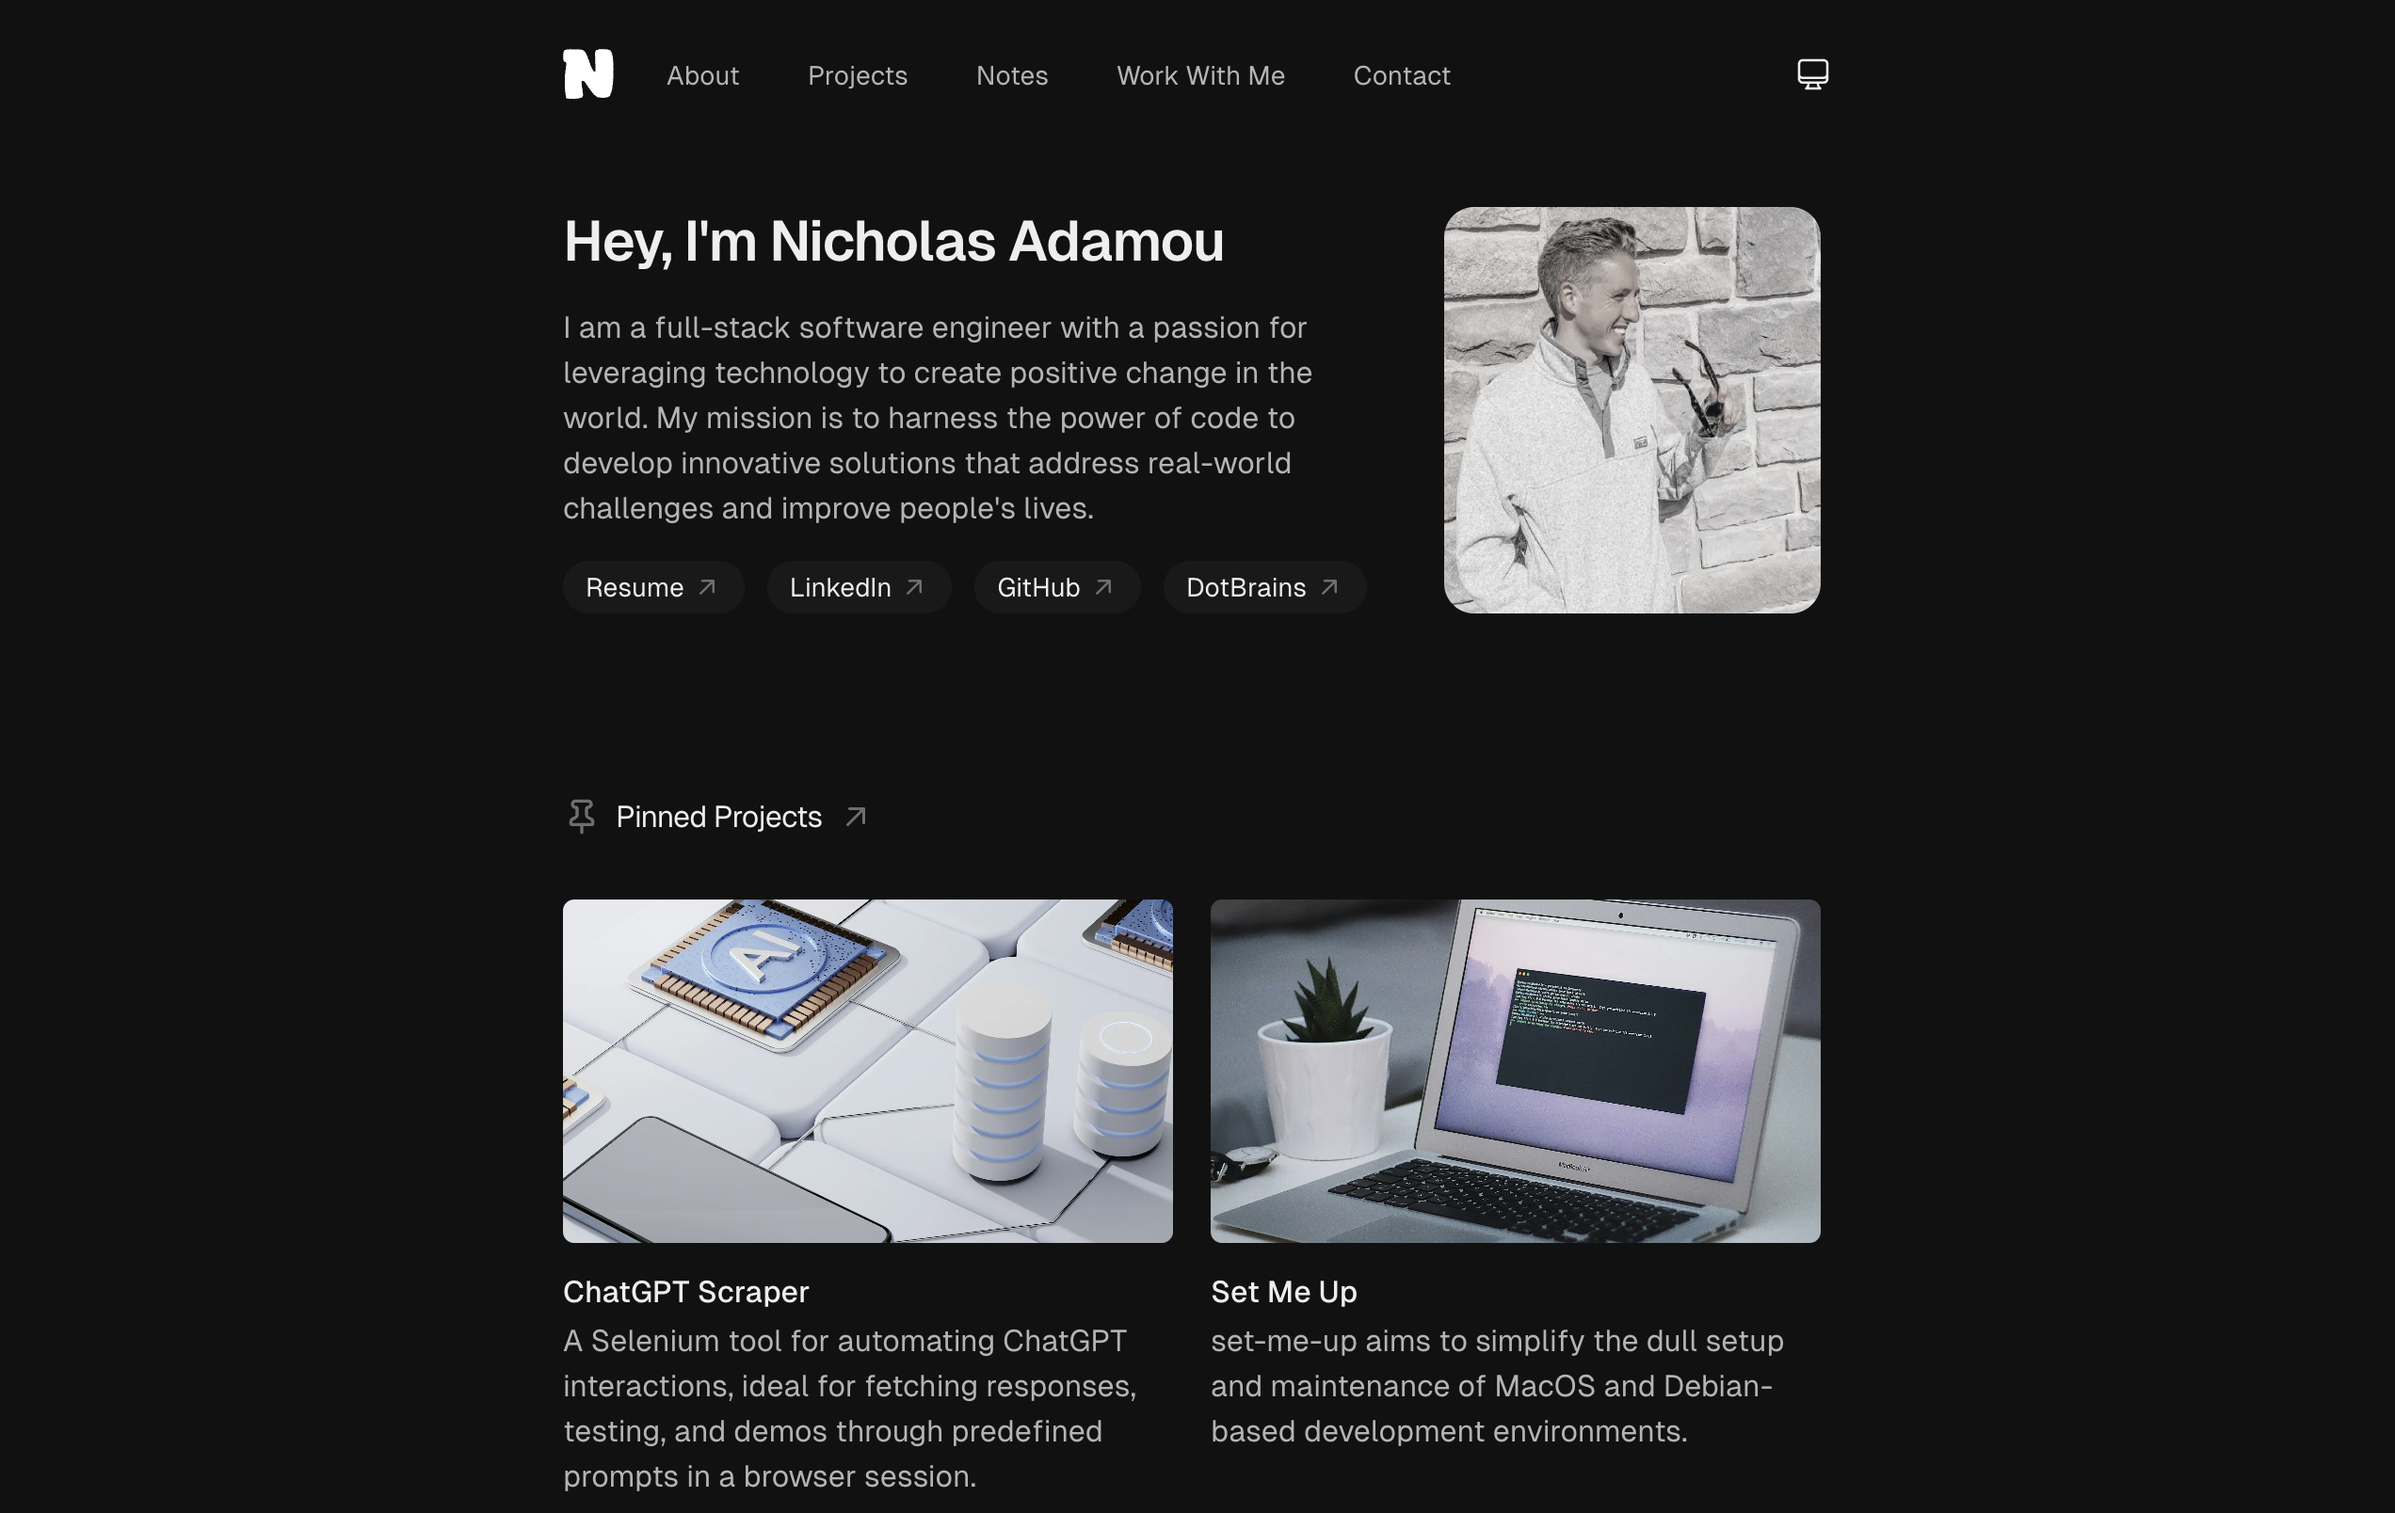
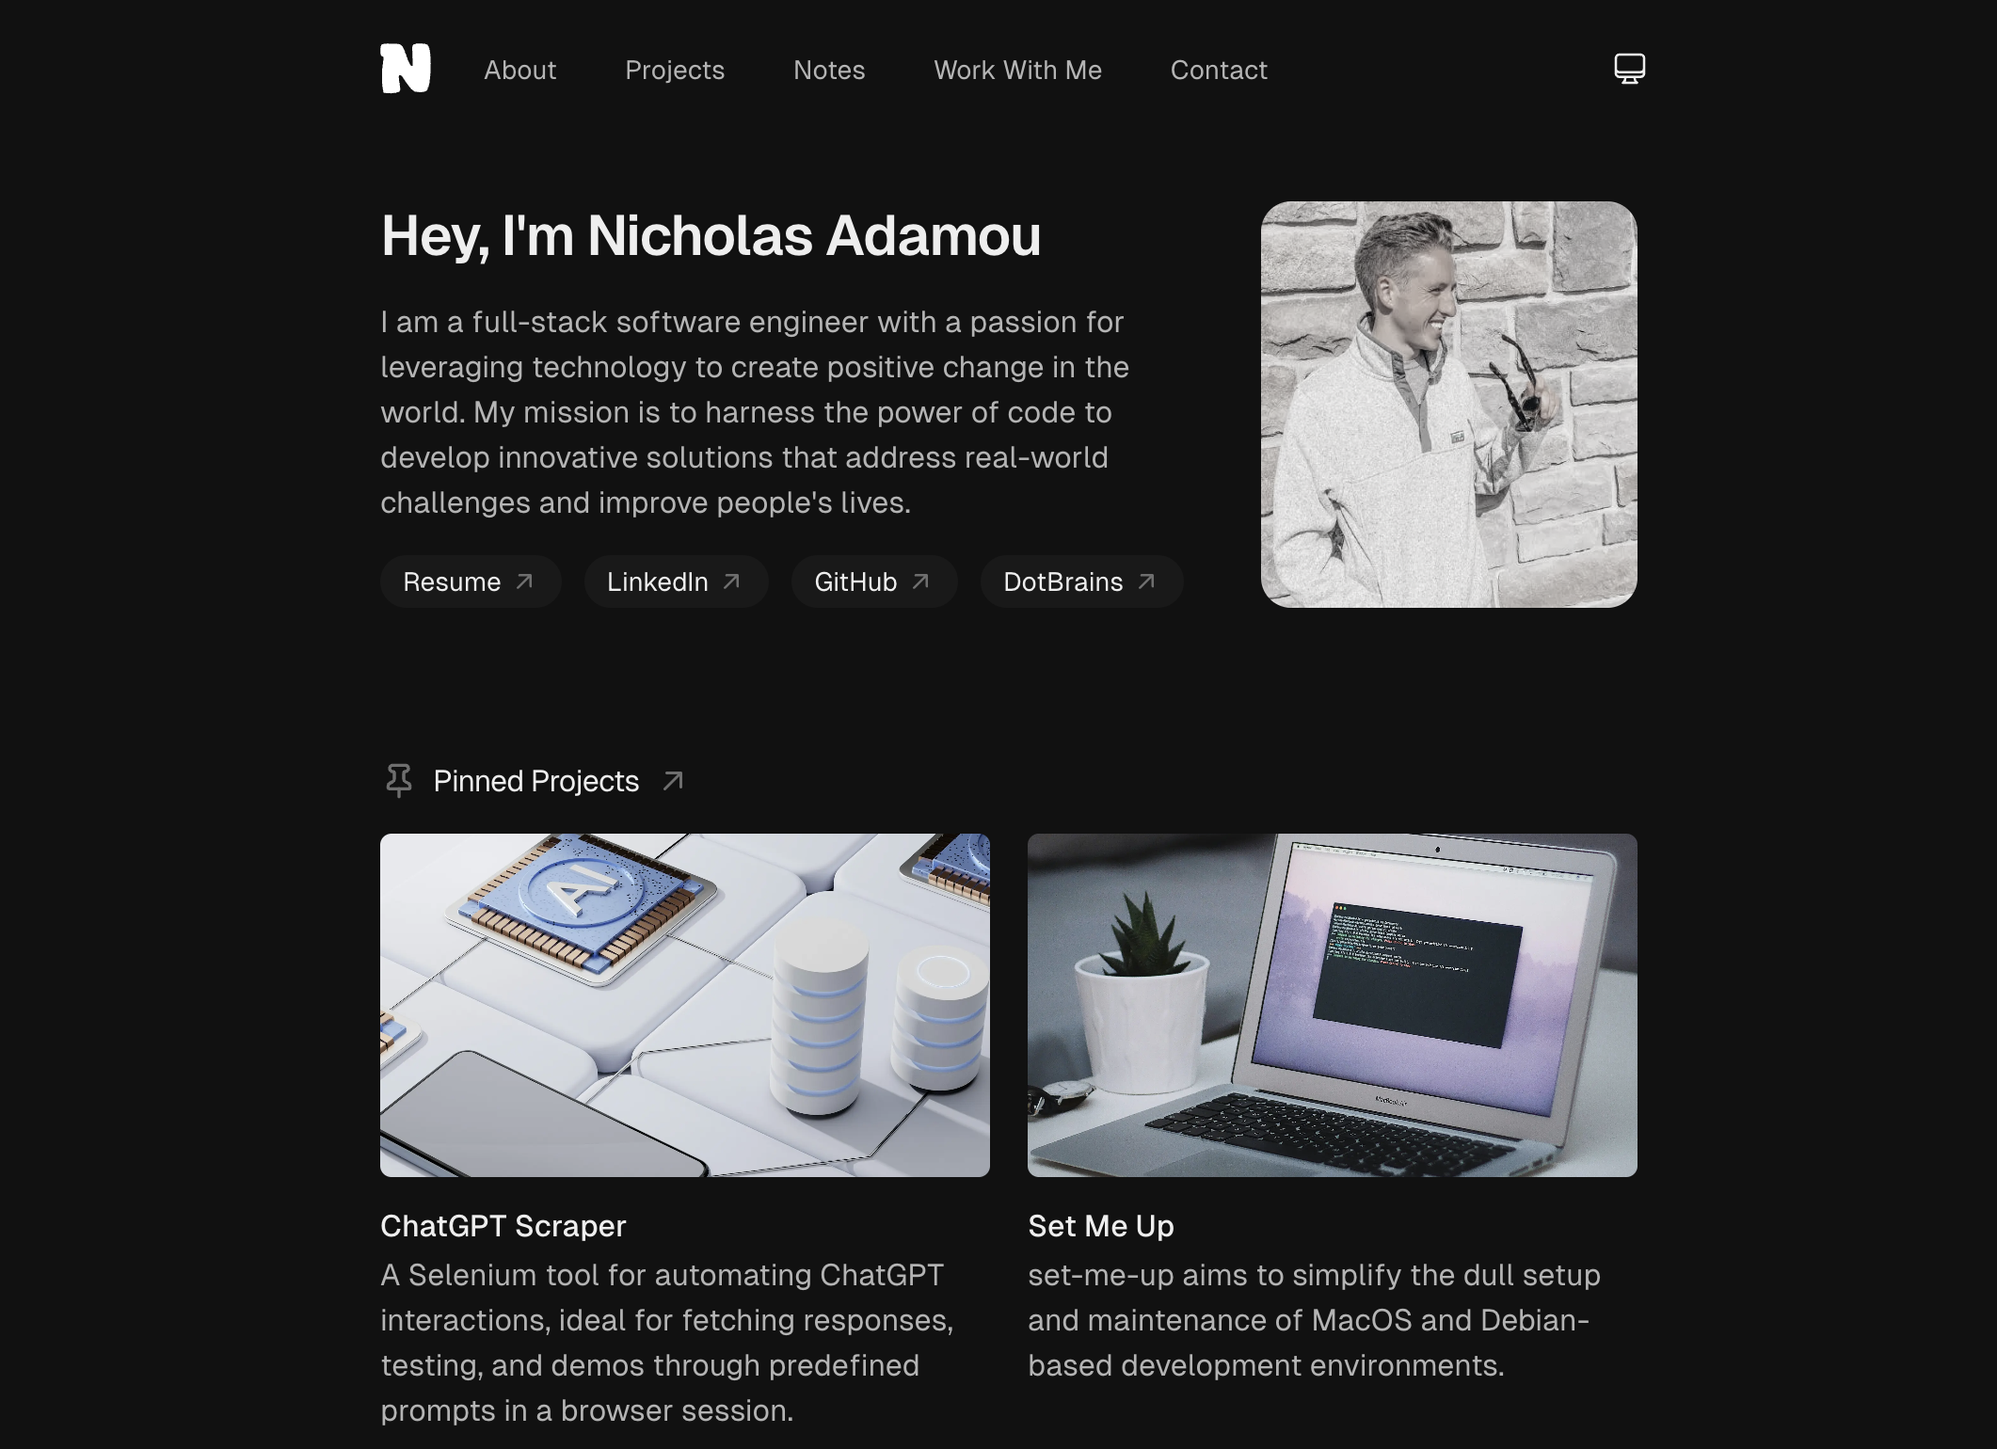
Adjust padding order in div for consistent styling
Reorder the padding property in the div class to maintain a consistent layout. This change ensures that the padding for medium devices is specified in the correct sequence, improving overall styling uniformity.

diff --git a/app/page.tsx b/app/page.tsx
@@ -32,7 +32,7 @@ export default function Home() {
   );
 
   return (
-    <div className="mx-auto flex max-w-[700px] flex-col gap-16 px-4 md:gap-24">
+    <div className="mx-auto flex max-w-[700px] flex-col gap-16 md:gap-20 px-4">
       <div className="flex flex-col gap-8">
         <div className="flex flex-col-reverse md:flex-row">
           <div className="mt-5 space-y-4 md:mr-10 md:mt-0">
